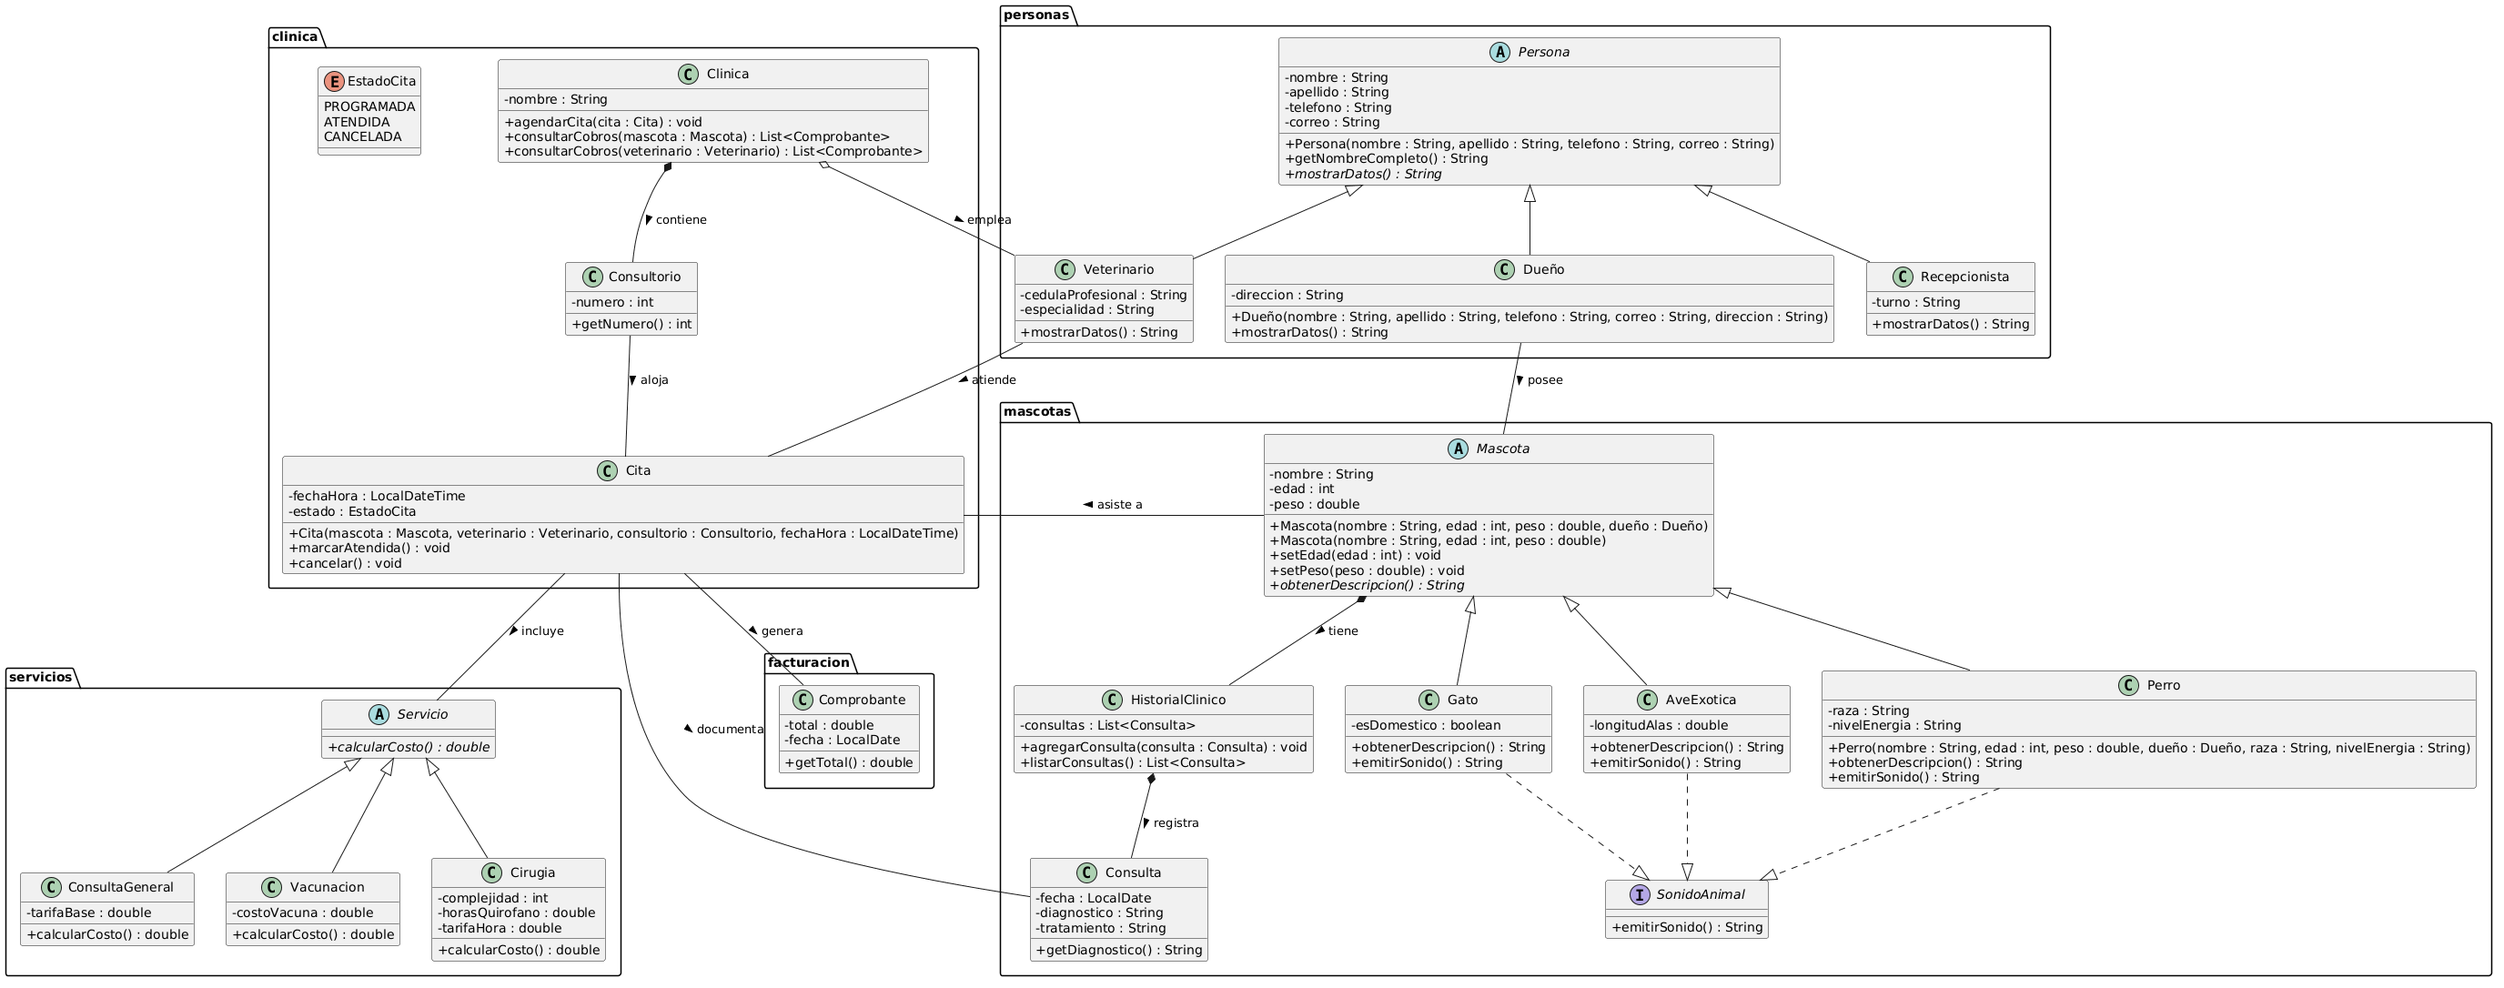
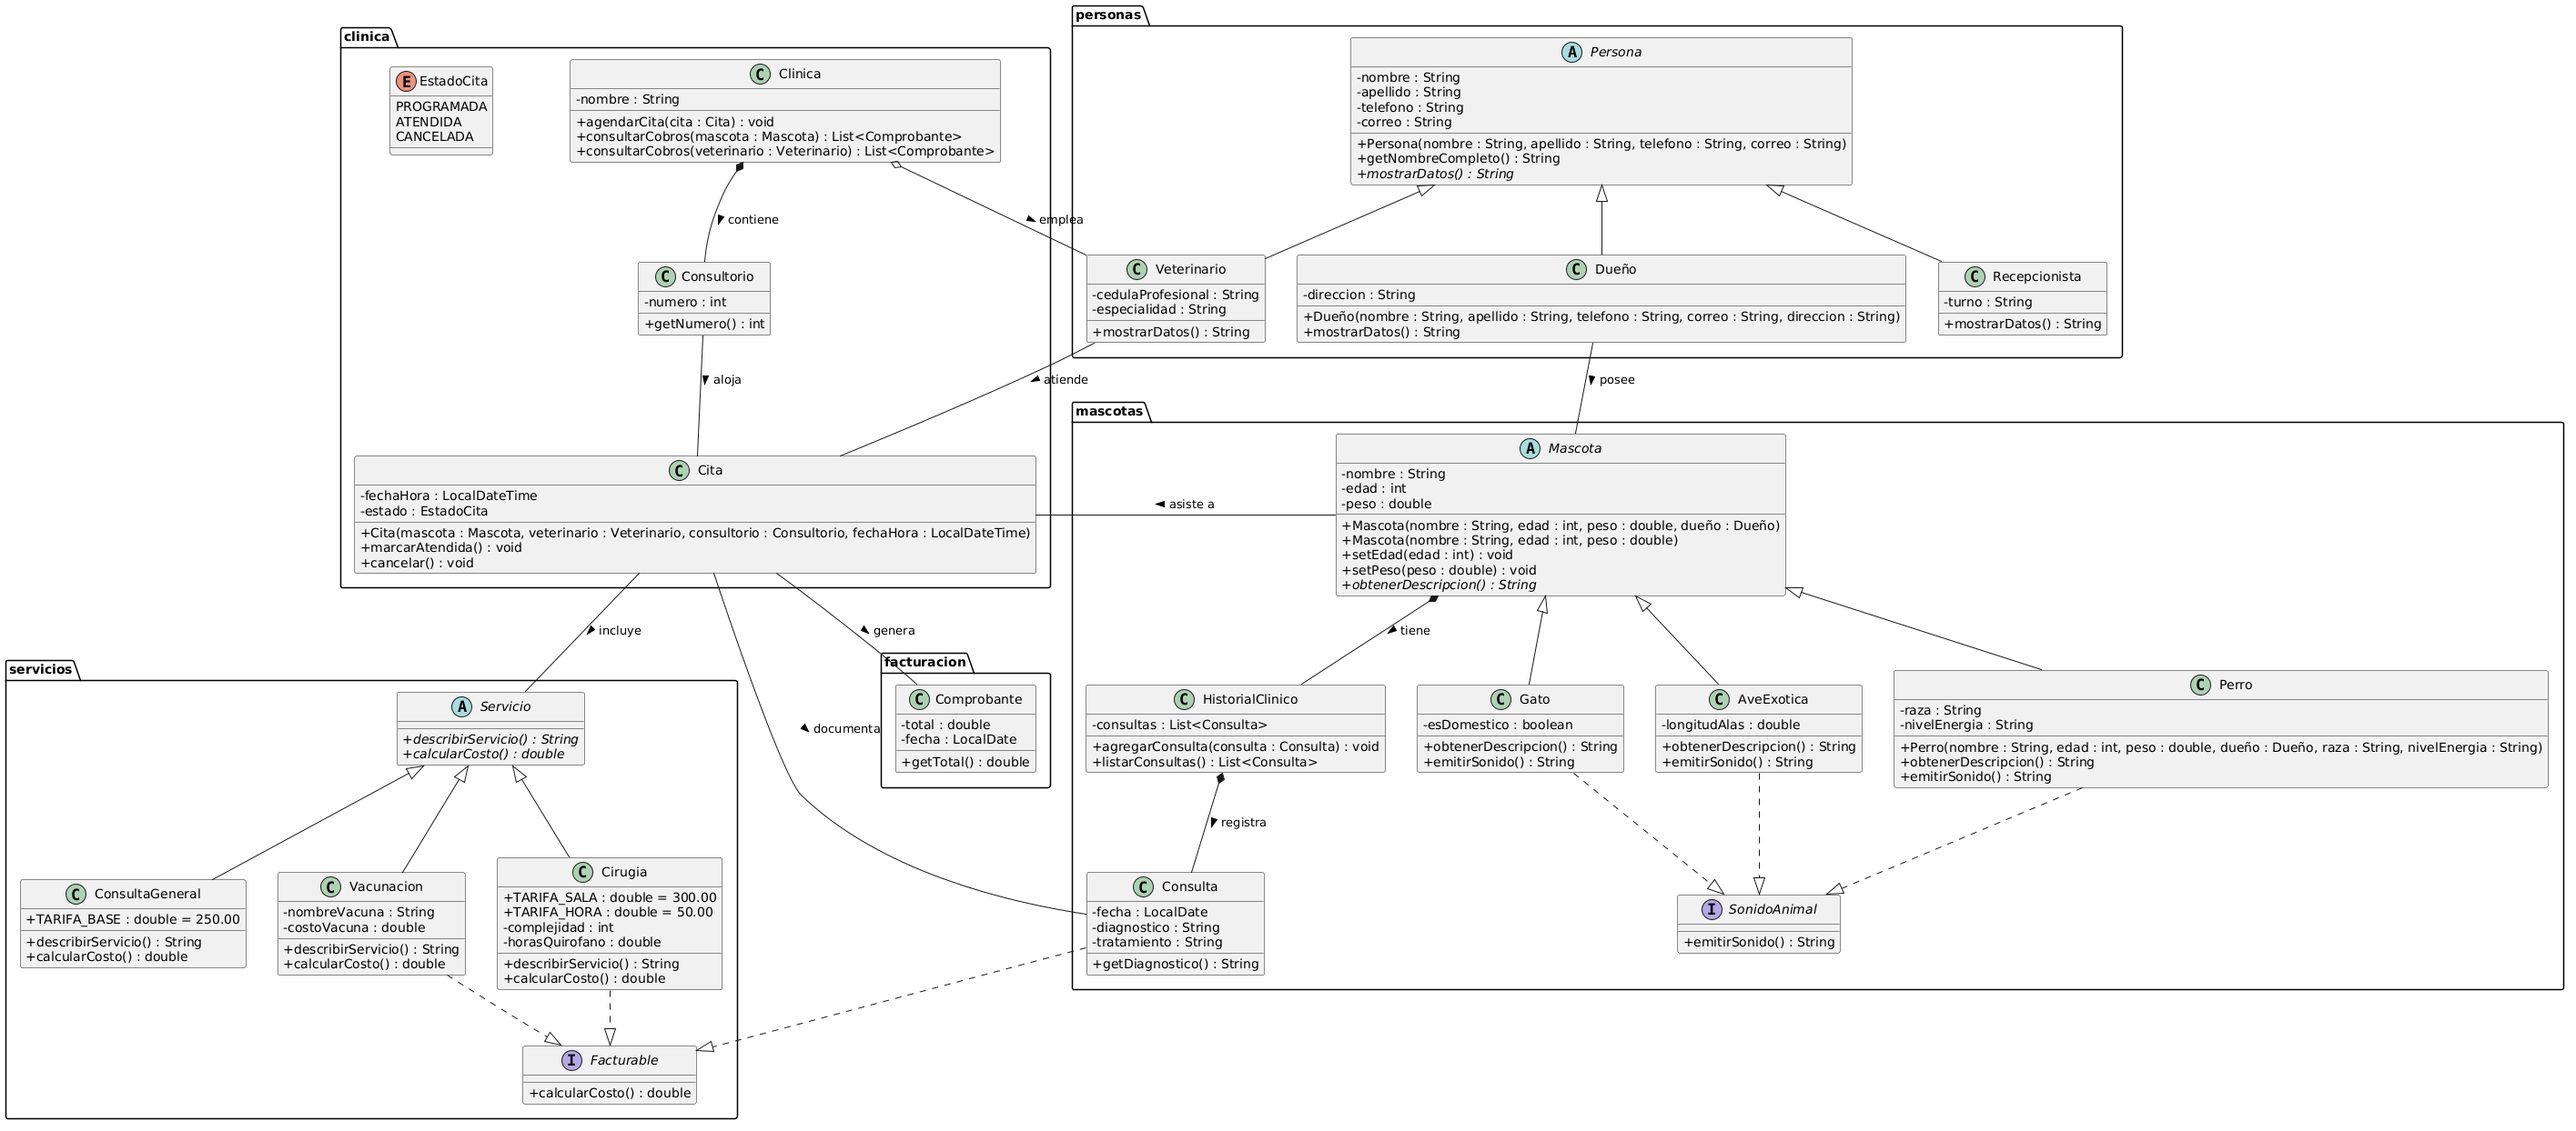
V3.2.0 Se agrega clases Servicio, ConsultaGeneral, Vacunacion, y Cirugia

diff --git a/src/modelo/servicios/Cirugia.java b/src/modelo/servicios/Cirugia.java
@@ -1,0 +1,62 @@
+package modelo.servicios;
+/**
+ * Cirugía: su costo depende de la complejidad y de las horas de quirófano
+ */
+
+public class Cirugia extends Servicio {
+    /**
+     * Costo de uso del quirófano
+     * Costo de uso del quirófano por hora
+     */
+    public static final double TARIFA_SALA = 300.00;
+    public static final double TARIFA_HORA = 50.00;
+
+    private int complejidad;
+    private double horasQuirofano;
+
+    /**
+     * Crea una cirugía
+     * @param complejidad nivel de complejidad, de 1 a 5
+     * @param horasQuirofano horas de quirófano, mayor que 0
+     */
+    public Cirugia(int complejidad, double horasQuirofano) {
+        setComplejidad(complejidad);
+        setHorasQuirofano(horasQuirofano);
+    }
+
+    /**
+     * @param complejidad
+     * @throws IllegalArgumentException si la complejidad no es válida
+     */
+    public void setComplejidad(int complejidad) {
+        if  (complejidad < 1 ||  complejidad > 5) {
+            throw new IllegalArgumentException("El complejidad debe ser entre 1 y 5");
+        }
+        this.complejidad = complejidad;
+    }
+
+    /**
+     * @param horasQuirofano
+     * @throws IllegalArgumentException si las horas en quirófano son menores o igual a 0
+     */
+    public void setHorasQuirofano(double horasQuirofano) {
+        if  (horasQuirofano <= 0) {
+            throw new IllegalArgumentException("Las horas en quirófano debe ser mayores a 0");
+        }
+        this.horasQuirofano = horasQuirofano;
+    }
+
+    @Override
+    public String describirServicio() {
+        return "Cirugía con complejidad de " + complejidad + " y " + horasQuirofano + " horas";
+    }
+
+    /**
+     * Costo = cargo fijo de la sala + horas de quirófano × tarifa por hora × complejidad.
+     * @return costo total de la cirugía
+     */
+    @Override
+    public double calcularCosto() {
+        return TARIFA_SALA + (horasQuirofano * TARIFA_HORA * complejidad);
+    }
+}

diff --git a/src/modelo/servicios/Vacunacion.java b/src/modelo/servicios/Vacunacion.java
@@ -1,0 +1,53 @@
+package modelo.servicios;
+/**
+ * Vacunación: su costo es el costo de la vacuna aplicada
+ */
+
+public class Vacunacion extends Servicio{
+    private String nombreVacuna;
+    private double costoVacuna;
+
+    /**
+     * Crea un servicio de vacunación
+     * @param nombreVacuna nombre de la vacuna aplicada
+     * @param costoVacuna costo de la vacuna en pesos, no menor a 0
+     */
+
+    public Vacunacion(String nombreVacuna, double costoVacuna) {
+        setNombreVacuna(nombreVacuna);
+        setCostoVacuna(costoVacuna);
+    }
+
+    /**
+     * @param nombreVacuna
+     * @throws IllegalArgumentException si el nombre está vacío
+     */
+    public void setNombreVacuna(String nombreVacuna) {
+        if (nombreVacuna == null || nombreVacuna.isBlank()) {
+            throw new IllegalArgumentException("El nombre de vacuna no puede estar vacío");
+        }
+        this.nombreVacuna = nombreVacuna;
+    }
+
+    /**
+     * @param costoVacuna
+     * @throws IllegalArgumentException si el costo es menor o igual a 0
+     */
+    public void setCostoVacuna(double costoVacuna) {
+        if (costoVacuna <= 0) {
+            throw new IllegalArgumentException("El costro de la vacuna no puede ser menor a 0");
+        }
+        this.costoVacuna = costoVacuna;
+    }
+
+    @Override
+    public String describirServicio() {
+        return "Se vacunó con: " + nombreVacuna;
+    }
+
+    @Override
+    public double calcularCosto() {
+        return costoVacuna;
+    }
+
+}

diff --git a/src/modelo/servicios/ConsultaGeneral.java b/src/modelo/servicios/ConsultaGeneral.java
@@ -1,0 +1,26 @@
+package modelo.servicios;
+/**
+ * Consulta general: su costo es la tarifa base
+ */
+
+public class ConsultaGeneral extends Servicio {
+    /**
+     * Tarifa base de una consulta general, en pesos.
+     */
+    public static final double TARIFA_BASE = 250.00;
+
+    /**
+     * Crea una consulta general con la tarifa base.
+     */
+    public ConsultaGeneral() {}
+
+    @Override
+    public double calcularCosto() {
+        return TARIFA_BASE;
+    }
+
+    @Override
+    public String describirServicio() {
+        return "Consulta general";
+    }
+}

diff --git a/src/modelo/servicios/Servicio.java b/src/modelo/servicios/Servicio.java
@@ -1,0 +1,17 @@
+package modelo.servicios;
+/**
+ * Clase abstracta padre de los servicios de la clínica
+ * Cada servicio calcula su costo de forma distinta
+ */
+
+public abstract class Servicio implements Facturable {
+
+    /**
+     * Describe el servicio para mostrarlo al usuario
+     * @return nombre y detalle del servicio
+     */
+    public abstract String describirServicio();
+
+    @Override
+    public abstract double calcularCosto();
+}

diff --git a/src/modelo/servicios/Facturable.java b/src/modelo/servicios/Facturable.java
@@ -1,5 +1,12 @@
 package modelo.servicios;
-
+/**
+ * Interfaz para calcular el costo de los servicios
+ */
 public interface Facturable {
+
+    /**
+     * Calcula el costo del servicio
+     * @return costo en pesos, no se permite negativos
+     */
     double calcularCosto();
 }

diff --git a/README.md b/README.md
@@ -3,32 +3,32 @@
 ## Parte 1: Análisis y diseño con UML
 
 ### 1.1 Identificación de clases y objetos
-| **Clase**            | **Tipo**    | **Atributos principales**                 | **Responsabilidades (métodos)**                                       | **Justificación**                                               |
-|----------------------|-------------|-------------------------------------------|-----------------------------------------------------------------------|-----------------------------------------------------------------|
-| **Persona**          | Abstracta   | nombre, apellido, telefono, correo        | getNombreCompleto(), mostrarDatos()                                   | Clase padre que contendrá dueños, veterinarios y recepcionistas |
-| **Dueño**            | Concreta    | direccion                                 | mostrarDatos()                                                        | Tiene dirección y posee mascotas                                |
-| **Veterinario**      | Concreta    | cedulaProfesional, especialidad           | mostrarDatos()                                                        | Atiende citas y existe aunque la clínica cierre.                |
-| **Recepcionista**    | Concreta    | turno                                     | mostrarDatos()                                                        | Tiene turno                                                     |
-| **SonidoAnimal**     | Interfaz    |                                           | emitirSonido()                                                        | Interfaz la emisión de sonido para perro, gato y ave            |
-| **Mascota**          | Abstracta   | nombre, edad, peso                        | setEdad(), setPeso() , mostrarDatosAnimal()                           | Clase padre de perro, gato y ave                                |
-| **Perro**            | Concreta    | raza, nivelEnergia                        | emitirSonido()                                                        | Tiene raza, nivel de energia y sonido propio                    |
-| **Gato**             | Concreta    | esDomestico                               | emitirSonido()                                                        | Puede ser domestico y tiene sonido propio                       |
-| **AveExotica**       | Concreta    | longitudAlas                              | emitirSonido()                                                        | Tiene longitud de alas y sonido propio                          |
-| **HistorialClinico** | Concreta    | consultas                                 | agregarConsulta(), verConsultas()                                     | Solo tiene sentido dentro de una mascota                        |
-| **Consulta**         | Concreta    | fecha, diagnostico, tratamiento           | getDiagnostico()                                                      | Registro clínico dentro del historial                           |
-| **Consultorio**      | Concreta    | numero                                    | getNumero()                                                           | Pertenece a la clínica y desaparece con ella                    |
-| **Clinica**          | Concreta    | nombre, consultorios, veterinarios, citas | agendarCita(), consultarCobros()                                      | Coordina el sistema y agrupa consultorios y personal            |
-| **Cita**             | Concreta    | fechaHora, estado                         | marcarAtendida(), cancelar()                                          | Relaciona mascota, veterinario y consultorio en una fecha       |
-| **EstadoCita**       | Enumeración | PROGRAMADA, ATENDIDA, CANCELADA           |                                                                       | Estados de la cita                                              |
-| **Facturable**       | Interfaz    |                                           | calcularCosto()                                                       | Interfaz para calcular costo de consulta, vacunacion y cirugia  |
-| **Servicio**         | Abstracta   |                                           | calcularCosto()                                                       | Cada servicio calcula su costo distinto                         |
-| **ConsultaGeneral**  | Concreta    | tarifaBase                                | calcularCosto()                                                       | Costo = tarifa base                                             |
-| **Vacunacion**       | Concreta    | costoVacuna                               | calcularCosto()                                                       | Costo = costo de la vacuna                                      |
-| **Cirugia**          | Concreta    | complejidad, horasQuirofano, tarifaHora   | calcularCosto()                                                       | Costo depende de complejidad y horas de quirófano               |
-| **Comprobante**      | Concreta    | total, fecha                              | getTotal()                                                            | Documento que se genera al terminar una cita                    |
+| **Clase**            | **Tipo**    | **Atributos principales**                             | **Responsabilidades (métodos)**                                       | **Justificación**                                               |
+|----------------------|-------------|-------------------------------------------------------|-----------------------------------------------------------------------|-----------------------------------------------------------------|
+| **Persona**          | Abstracta   | nombre, apellido, telefono, correo                    | getNombreCompleto(), mostrarDatos()                                   | Clase padre que contendrá dueños, veterinarios y recepcionistas |
+| **Dueño**            | Concreta    | direccion                                             | mostrarDatos()                                                        | Tiene dirección y posee mascotas                                |
+| **Veterinario**      | Concreta    | cedulaProfesional, especialidad                       | mostrarDatos()                                                        | Atiende citas y existe aunque la clínica cierre.                |
+| **Recepcionista**    | Concreta    | turno                                                 | mostrarDatos()                                                        | Tiene turno                                                     |
+| **SonidoAnimal**     | Interfaz    |                                                       | emitirSonido()                                                        | Interfaz la emisión de sonido para perro, gato y ave            |
+| **Mascota**          | Abstracta   | nombre, edad, peso                                    | setEdad(), setPeso() , mostrarDatosAnimal()                           | Clase padre de perro, gato y ave                                |
+| **Perro**            | Concreta    | raza, nivelEnergia                                    | emitirSonido()                                                        | Tiene raza, nivel de energia y sonido propio                    |
+| **Gato**             | Concreta    | esDomestico                                           | emitirSonido()                                                        | Puede ser domestico y tiene sonido propio                       |
+| **AveExotica**       | Concreta    | longitudAlas                                          | emitirSonido()                                                        | Tiene longitud de alas y sonido propio                          |
+| **HistorialClinico** | Concreta    | consultas                                             | agregarConsulta(), verConsultas()                                     | Solo tiene sentido dentro de una mascota                        |
+| **Consulta**         | Concreta    | fecha, diagnostico, tratamiento                       | getDiagnostico()                                                      | Registro clínico dentro del historial                           |
+| **Consultorio**      | Concreta    | numero                                                | getNumero()                                                           | Pertenece a la clínica y desaparece con ella                    |
+| **Clinica**          | Concreta    | nombre, consultorios, veterinarios, citas             | agendarCita(), consultarCobros()                                      | Coordina el sistema y agrupa consultorios y personal            |
+| **Cita**             | Concreta    | fechaHora, estado                                     | marcarAtendida(), cancelar()                                          | Relaciona mascota, veterinario y consultorio en una fecha       |
+| **EstadoCita**       | Enumeración | PROGRAMADA, ATENDIDA, CANCELADA                       |                                                                       | Estados de la cita                                              |
+| **Facturable**       | Interfaz    |                                                       | calcularCosto()                                                       | Interfaz para calcular costo de consulta, vacunacion y cirugia  |
+| **Servicio**         | Abstracta   |                                                       | describirServicio(), calcularCosto()                                  | Cada servicio tiene una descripción y calcula su costo distinto |
+| **ConsultaGeneral**  | Concreta    | tarifaBase                                            | describirServicio(), calcularCosto()                                  | Descripción de la consulta y Costo = tarifa base                |
+| **Vacunacion**       | Concreta    | nombreVacuna, costoVacuna                             | describirServicio(), calcularCosto()                                  | Descripción de la vacuna y Costo = costo de la vacuna           |
+| **Cirugia**          | Concreta    | tarifaSala, complejidad, horasQuirofano, tarifaHora   | describirServicio(), calcularCosto()                                  | Servicio de la cirugía, Costo= complejidad y horas de quirófano |
+| **Comprobante**      | Concreta    | total, fecha                                          | getTotal()                                                            | Documento que se genera al terminar una cita                    |
 
 ### 1.2 Diagrama de clases
-![DiagramaClases](docs/DiagramaClasesVeterinaria1.png)
+![DiagramaClases](docs/DiagramaClasesVeterinaria.png)
 
 ### 1.3 Justificación de relaciones
 * `Dueño – Mascota` (asociación “posee”): Son independientes. Un dueño puede tener varias mascotas, pero la mascota no es parte del dueño. Si se elimina un dueño, sus mascotas deben reasignarse o darse de baja, pero no se borran automáticamente con él.
